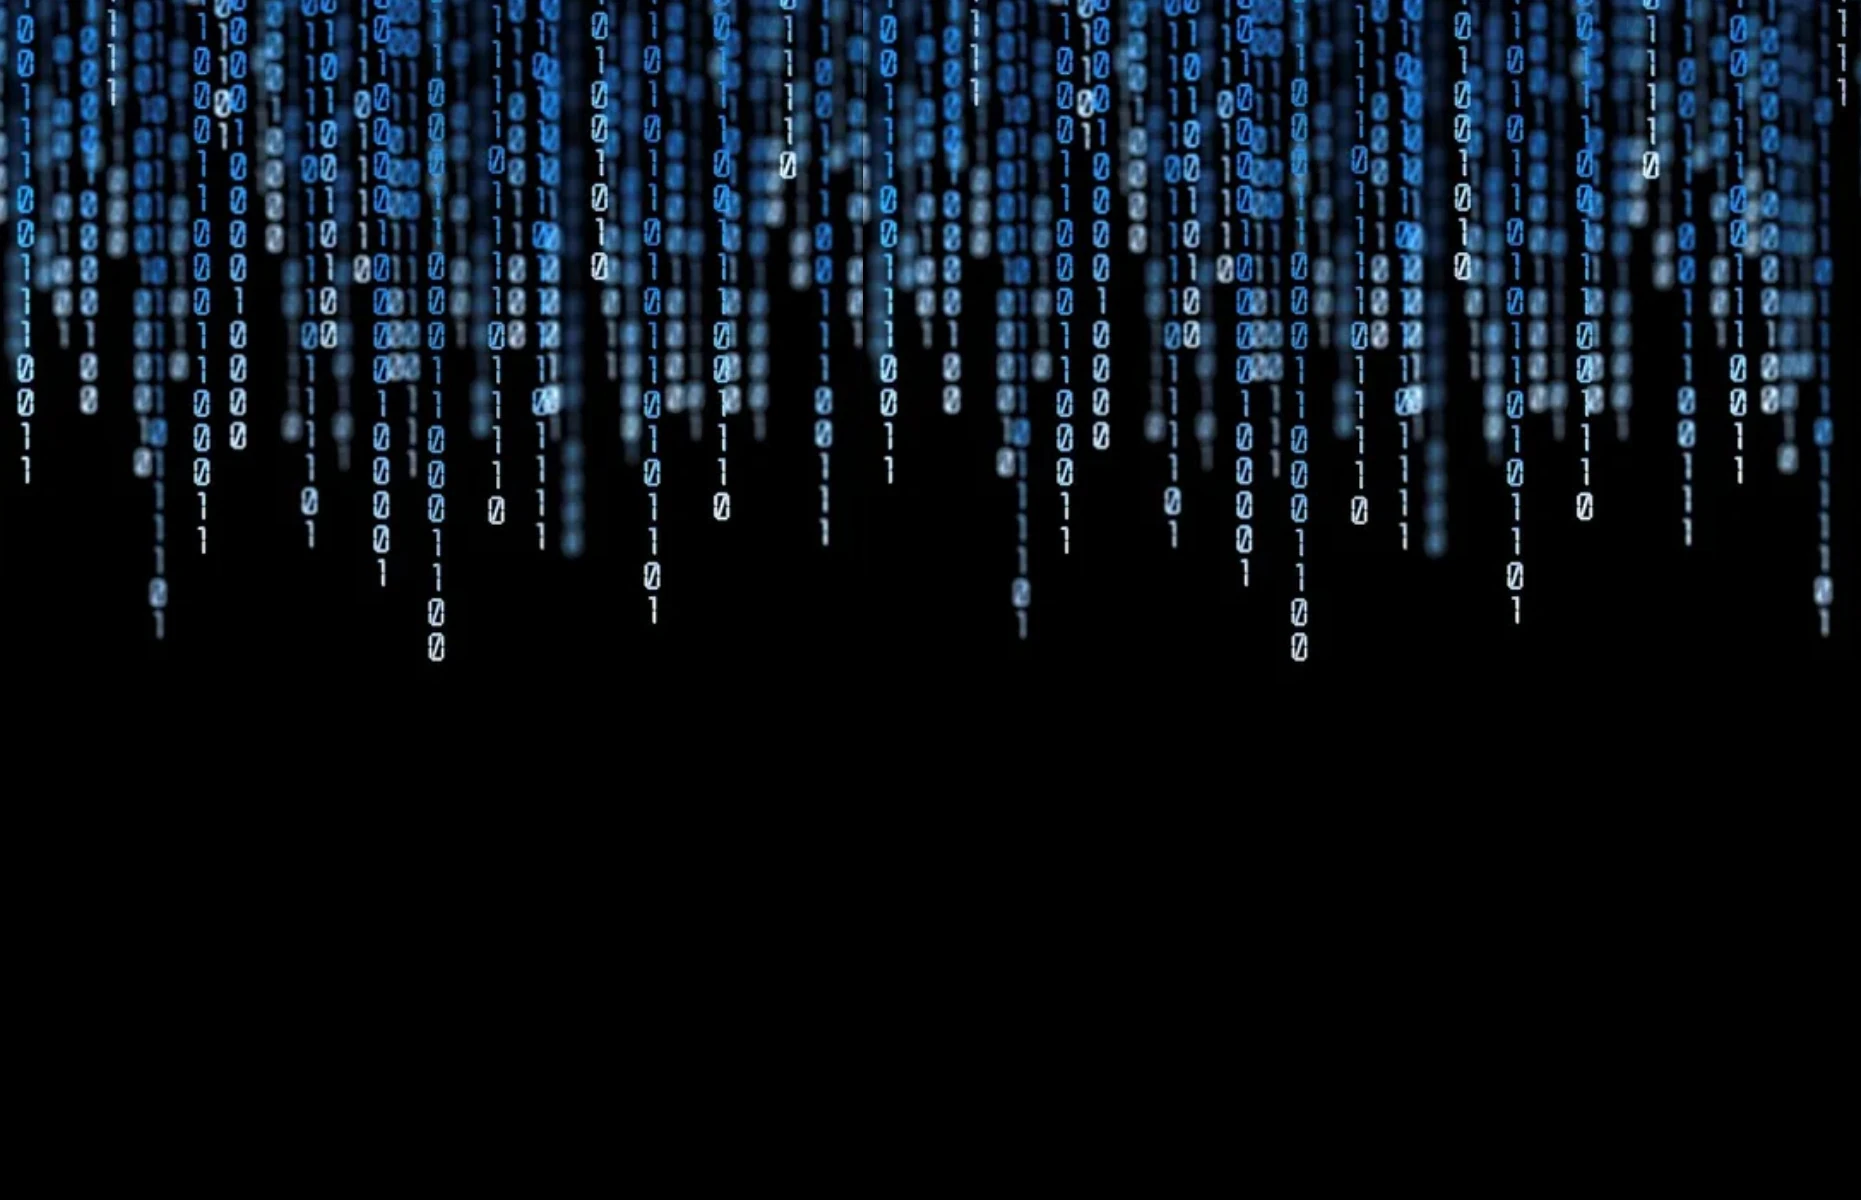
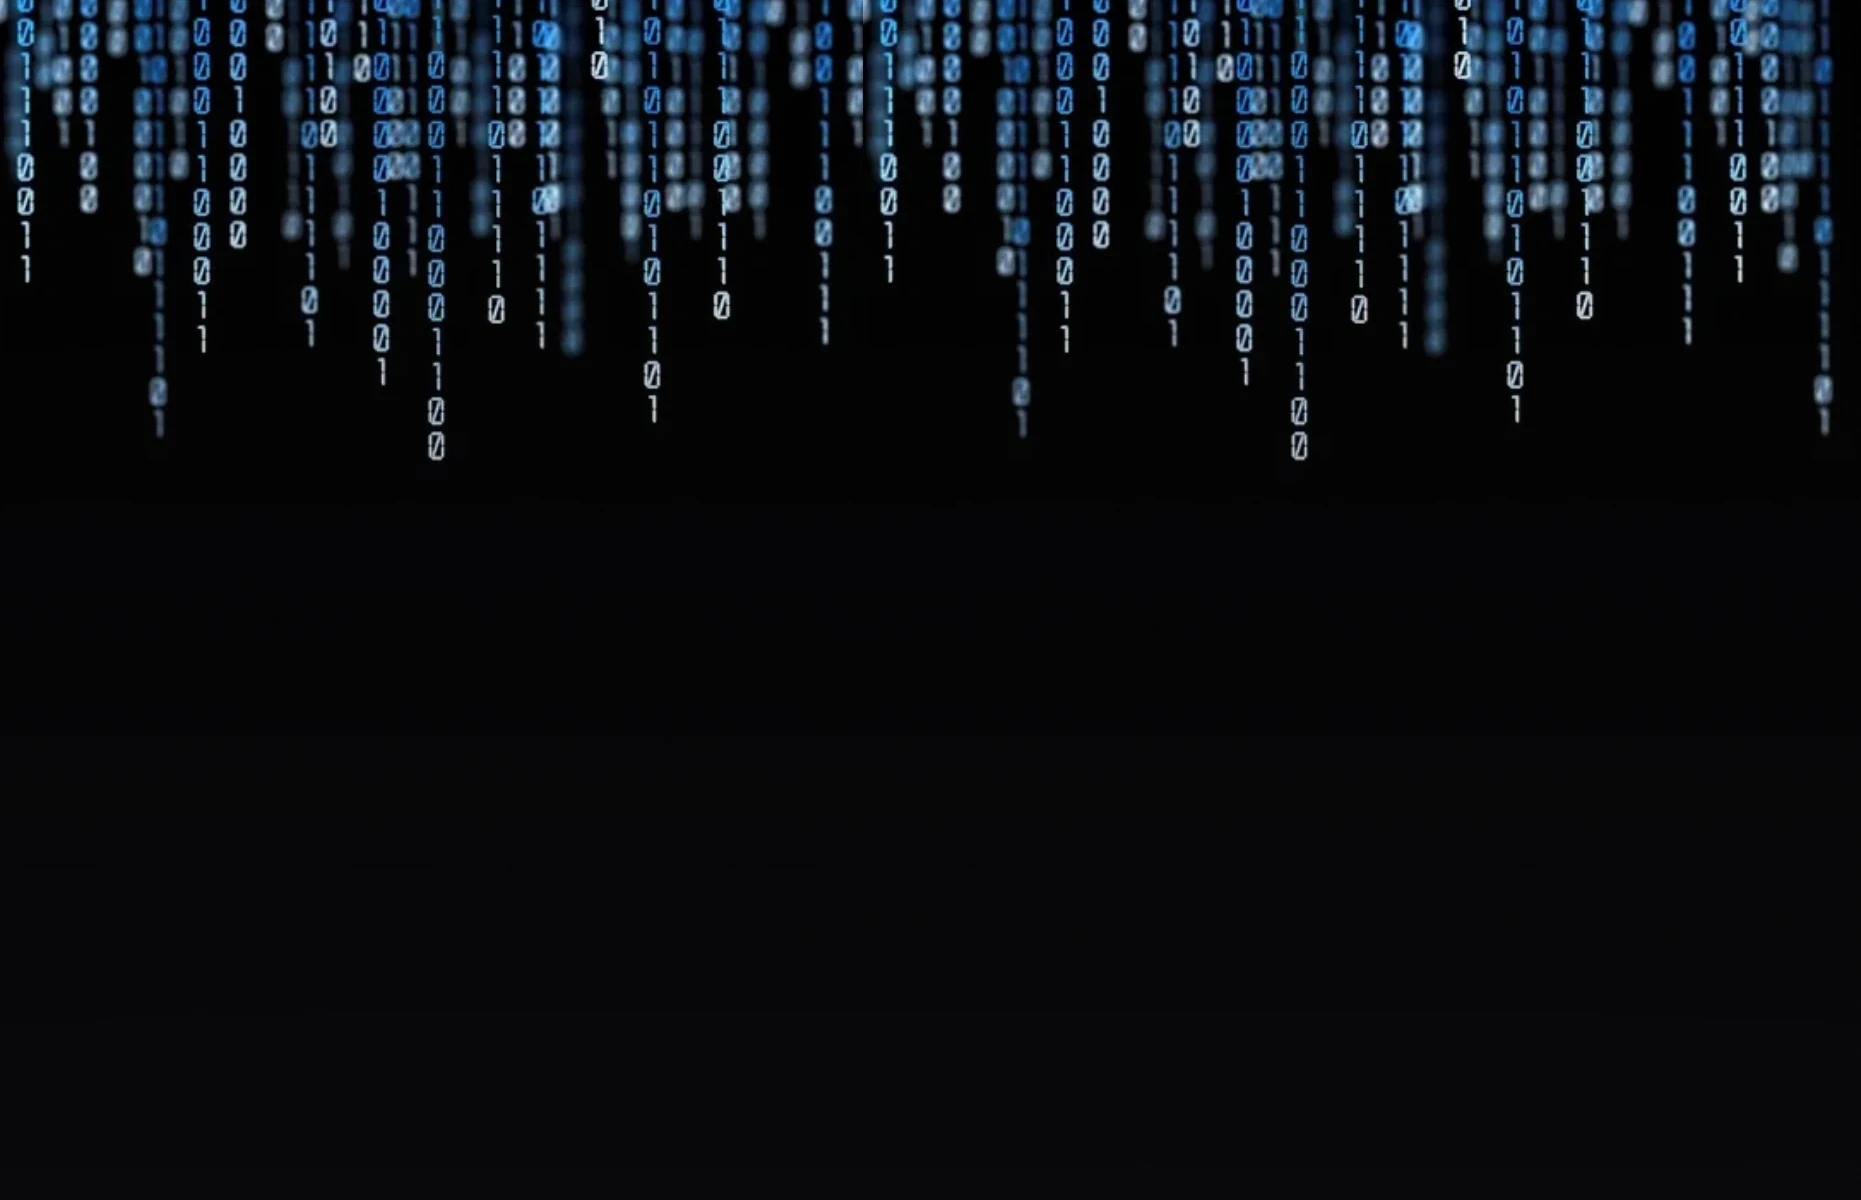
Adding PHP proyect

diff --git a/src/components/Skills.jsx b/src/components/Skills.jsx
@@ -8,16 +8,18 @@ import reactImage from "../images/icons8-reaccionar.svg";
 import firebaseImage from "../images/icons8-firebase.svg";
 import bootsT from "../images/bootstrap-4-logo-svgrepo-com.svg";
 import wp from "../images/wordpress-color-svgrepo-com.svg";
+import php from "../images/php-1-logo-svgrepo-com.svg";
 
 function Skills() {
   return (
-    <div className="scroll-container flex flex-col justify-center items-center mt-32">
+    <div className="scroll-container flex flex-col justify-center items-center mt-8">
       <h1 className="text-2xl font-extrabold gradient mb-3">Skills</h1>
       <div className="scroll flex">
         <div className="scroll-slide">
           <div><img src={htmlImage} /></div>
           <div><img src={cssImage} /></div>
           <div><img src={jsImage} /></div>
+          <div><img src={php} /></div>
           <div><img src={reactImage} /></div>
           <div><img src={node} /></div>
           <div><img src={sql} /></div>
@@ -30,6 +32,7 @@ function Skills() {
           <div><img src={htmlImage} /></div>
           <div><img src={cssImage} /></div>
           <div><img src={jsImage} /></div>
+          <div><img src={php} /></div>
           <div><img src={reactImage} /></div>
           <div><img src={node} /></div>
           <div><img src={sql} /></div>

diff --git a/src/components/Projects.jsx b/src/components/Projects.jsx
@@ -77,6 +77,20 @@ function Projects() {
     },
     {
       id: 3,
+      title: "El Blog de QtieAlpaca",
+      description:
+        "Blog Personal de tecnología y video juegos",
+      technologies: [
+        { text: "PHP" },
+        { text: "Bootstrap" },
+        { text: "PHPMyAdmin" }, 
+      ],
+      link: "https://vanesanchez.x10.mx/index.php",
+      git: "",
+      image: p2,
+    },
+    {
+      id: 4,
       title: "Jarochita Toys",
       description:
         "Landing Page simple, con galería para un taller de juguetes cotumizados. Hecha con WP.",
@@ -86,20 +100,6 @@ function Projects() {
       link: "https://jarochitatoys.netlify.app/galeria",
       git: "",
       image: p5,
-    },
-    {
-      id: 4,
-      title: "Humaya",
-      description:
-        "Landing Page de Ventas, como proyecto individual en ReactJs y estilado con Bootstrap.",
-      technologies: [
-        { text: "React" },
-        { text: "JavaScript" },
-        { text: "Bootstrap" },
-      ],
-      link: "https://peppy-croissant-5e5c96.netlify.app/",
-      git: "https://github.com/NezziY/humaya-tp",
-      image: p2,
     },
     {
       id: 5,

diff --git a/src/App.jsx b/src/App.jsx
@@ -5,7 +5,7 @@ import Header from "./components/Header.jsx";
 
 function App() {
   return (
-    <div className="bg-black text-gray-100 max-w-[1233px] mx-auto">
+    <div className="bg-zinc-950 text-gray-200 max-w-[1233px] mx-auto">
       <Header />
       <Skills />
       <Projects />

diff --git a/src/index.css b/src/index.css
@@ -3,7 +3,7 @@
 @tailwind utilities;
 
 body {
-  background: black;
+  background: #09090b;
 }
 
 .gradient {
